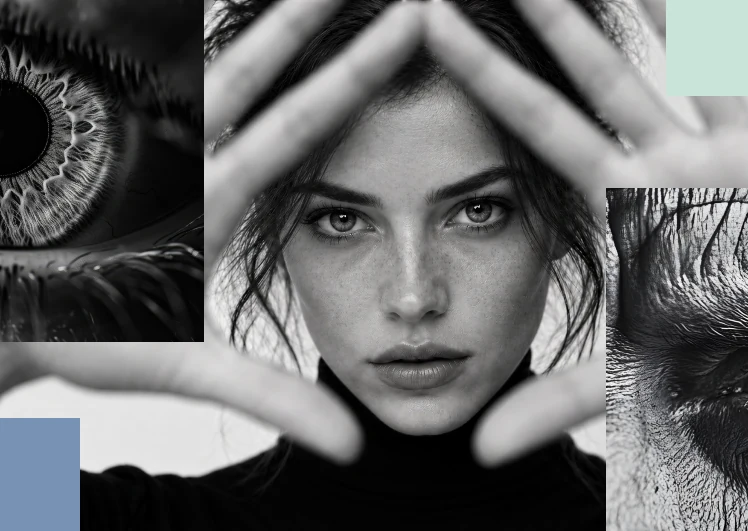
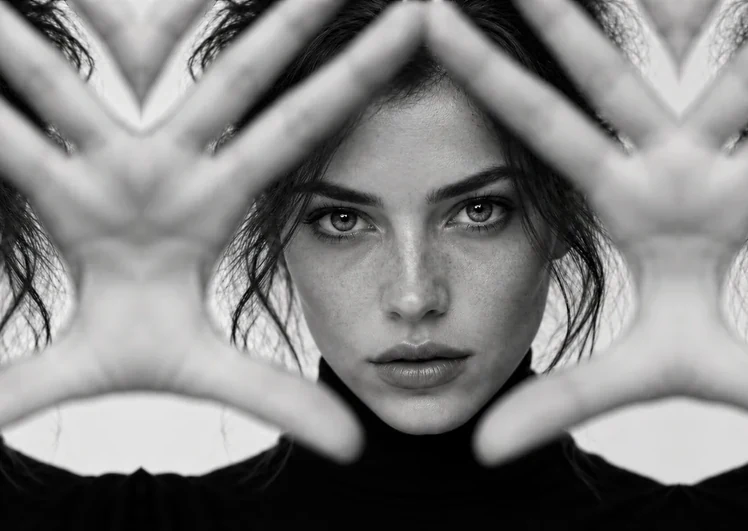
Add files via upload

diff --git a/styles.css b/styles.css
@@ -282,12 +282,12 @@ h1, h2, p { margin: 0; }
 .buy .photo { position: absolute; overflow: hidden; }
 .buy .photo picture { display: block; width: 100%; height: 100%; }
 .buy .photo img { width: 100%; height: 100%; object-fit: cover; }
-.buy .ph-eye { left: calc(486 * var(--u)); top: calc(38 * var(--u)); width: calc(204 * var(--u)); height: calc(204 * var(--u)); }
-.buy .ph-woman { left: calc(588 * var(--u)); top: calc(71 * var(--u)); width: calc(374 * var(--u)); height: calc(265 * var(--u)); }
+.buy .ph-eye { left: calc(486 * var(--u)); top: calc(38 * var(--u)); width: calc(204 * var(--u)); height: calc(204 * var(--u)); z-index: 3; }
+.buy .ph-woman { left: calc(588 * var(--u)); top: calc(71 * var(--u)); width: calc(374 * var(--u)); height: calc(265 * var(--u)); z-index: 1; }
 .buy .ph-woman img { object-position: 50% 50%; }
-.buy .ph-old { left: calc(891 * var(--u)); top: calc(165 * var(--u)); width: calc(209 * var(--u)); height: calc(196 * var(--u)); }
-.buy .sq-mint { left: calc(921 * var(--u)); top: calc(38 * var(--u)); width: calc(81 * var(--u)); height: calc(81 * var(--u)); }
-.buy .sq-blue { left: calc(547 * var(--u)); top: calc(280 * var(--u)); width: calc(81 * var(--u)); height: calc(81 * var(--u)); }
+.buy .ph-old { left: calc(891 * var(--u)); top: calc(165 * var(--u)); width: calc(209 * var(--u)); height: calc(196 * var(--u)); z-index: 2; }
+.buy .sq-mint { left: calc(921 * var(--u)); top: calc(38 * var(--u)); width: calc(81 * var(--u)); height: calc(81 * var(--u)); z-index: 2; }
+.buy .sq-blue { left: calc(547 * var(--u)); top: calc(280 * var(--u)); width: calc(81 * var(--u)); height: calc(81 * var(--u)); z-index: 2; }
 .buy .ph-eye-dark { display: none; }
 
 /* ---------- Footer ---------- */
@@ -501,8 +501,31 @@ h1, h2, p { margin: 0; }
   .hero-deco, .book-extra-mint, .book-extra-lime, .book-extra-blue, .buy .sq-blue-2 { display: none; }
 }
 
+
+/* ---------- Float + hover nas imagens e quadrados ----------
+   Usa as propriedades individuais translate/rotate/scale, que se somam ao
+   transform do GSAP (entrada e parallax) sem conflito. */
+@keyframes float-y { 0%, 100% { translate: 0 0; } 50% { translate: 0 calc(-9 * var(--u)); } }
+
+.sq, .book-cover, .buy .photo, .footer .f-eye, .book-extra-lime, .book-extra-blue, .book-extra-mint {
+  animation: float-y 5s ease-in-out infinite; /* mesma duração e fase: tudo flutua em sincronia */
+  will-change: translate;
+}
+
+.buy .photo img, .book-cover img { transition: scale .6s cubic-bezier(.2,.7,.2,1), rotate .6s cubic-bezier(.2,.7,.2,1), filter .4s; }
+.sq { transition: scale .35s cubic-bezier(.2,.7,.2,1), rotate .35s cubic-bezier(.2,.7,.2,1); }
+
+@media (hover: hover) {
+  .buy .photo:hover img { scale: 1.08; filter: contrast(1.08); }
+  .book-cover:hover img { scale: 1.05; rotate: -2.5deg; }
+  .sq:hover { scale: 1.07; rotate: 2deg; }
+  .author-photo img { transition: filter .5s; }
+  .author-photo:hover img { filter: contrast(1.08) brightness(1.04); }
+}
+
 @media (prefers-reduced-motion: reduce) {
   html { scroll-behavior: auto; }
   .drawer, .drawer-backdrop, .drawer-nav > *, .drawer-nav a.item::after { transition: none; }
   .buy-btn::after { animation: none; }
+  .sq, .book-cover, .buy .photo, .footer .f-eye, .book-extra-lime, .book-extra-blue, .book-extra-mint { animation: none !important; }
 }
